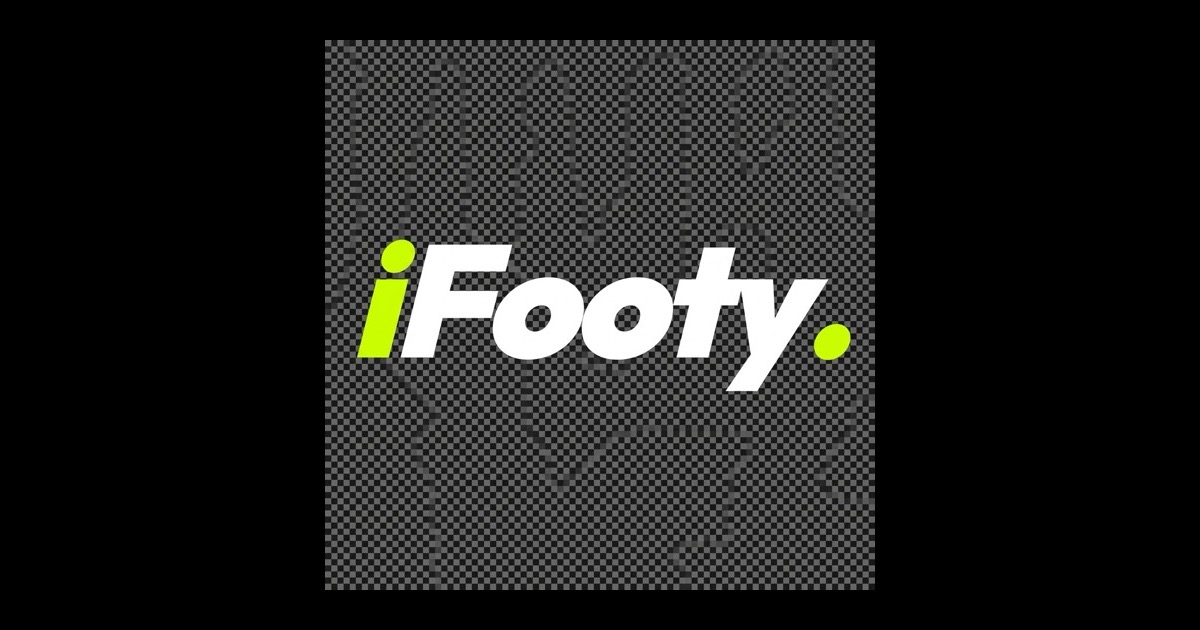
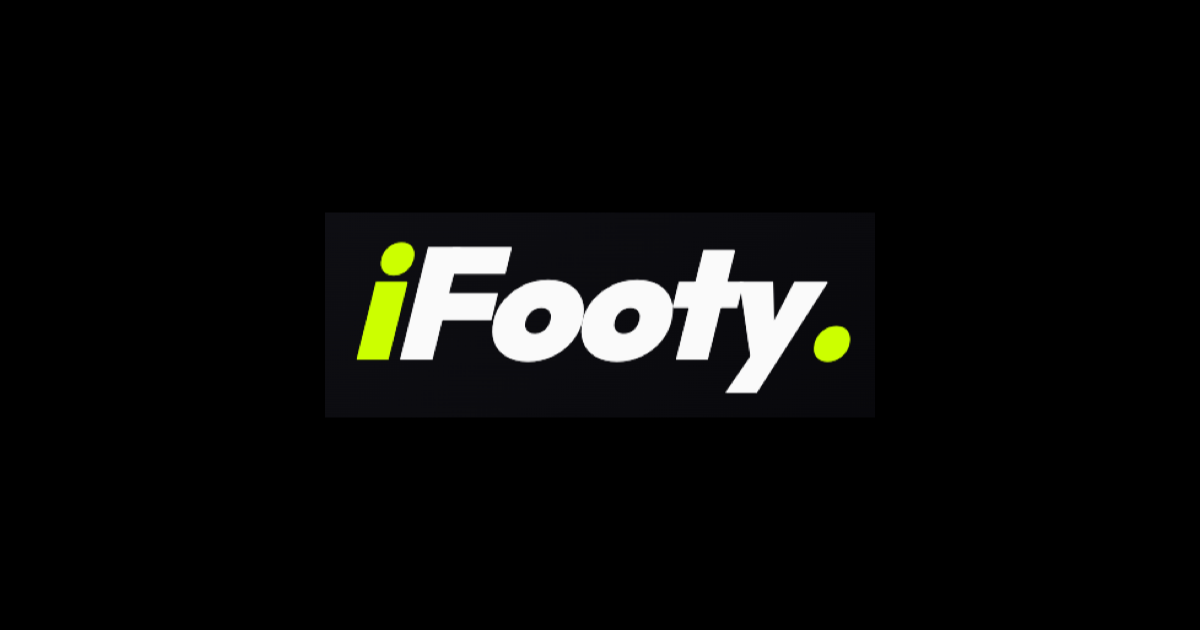
zap9

Changed region(s): [[0.2467, 0.0603, 0.74, 0.9349]]

diff --git a/process_logo.swift b/process_logo.swift
@@ -1,0 +1,42 @@
+import AppKit
+
+let inputPath = "/Users/andreoliveira/.gemini/antigravity/brain/c77f7cef-e33f-4708-9289-d9ae3d94219d/browser/logo.png"
+let outputPath = "/Users/andreoliveira/Documents/Camisa10/public/logo-exact-transparent.png"
+
+guard let image = NSImage(contentsOfFile: inputPath),
+      let tiff = image.tiffRepresentation,
+      let bitmap = NSBitmapImageRep(data: tiff) else {
+    print("Erro ao carregar imagem")
+    exit(1)
+}
+
+let width = bitmap.pixelsWide
+let height = bitmap.pixelsHigh
+
+// Amostragem da cor de fundo (canto superior esquerdo)
+let bgColor = bitmap.colorAt(x: 0, y: 0)
+
+for y in 0..<height {
+    for x in 0..<width {
+        if let color = bitmap.colorAt(x: x, y: y) {
+            // Calcula a diferença entre a cor do pixel e a cor de fundo
+            let dr = abs(color.redComponent - bgColor!.redComponent)
+            let dg = abs(color.greenComponent - bgColor!.greenComponent)
+            let db = abs(color.blueComponent - bgColor!.blueComponent)
+            
+            // Se a cor for muito próxima do fundo, torna transparente
+            if dr < 0.15 && dg < 0.15 && db < 0.15 {
+                bitmap.setColor(NSColor(red: 0, green: 0, blue: 0, alpha: 0), atX: x, y: y)
+            }
+        }
+    }
+}
+
+if let pngData = bitmap.representation(using: .png, properties: [:]) {
+    do {
+        try pngData.write(to: URL(fileURLWithPath: outputPath))
+        print("Logo transparente salva em: \(outputPath)")
+    } catch {
+        print("Erro ao salvar: \(error)")
+    }
+}
